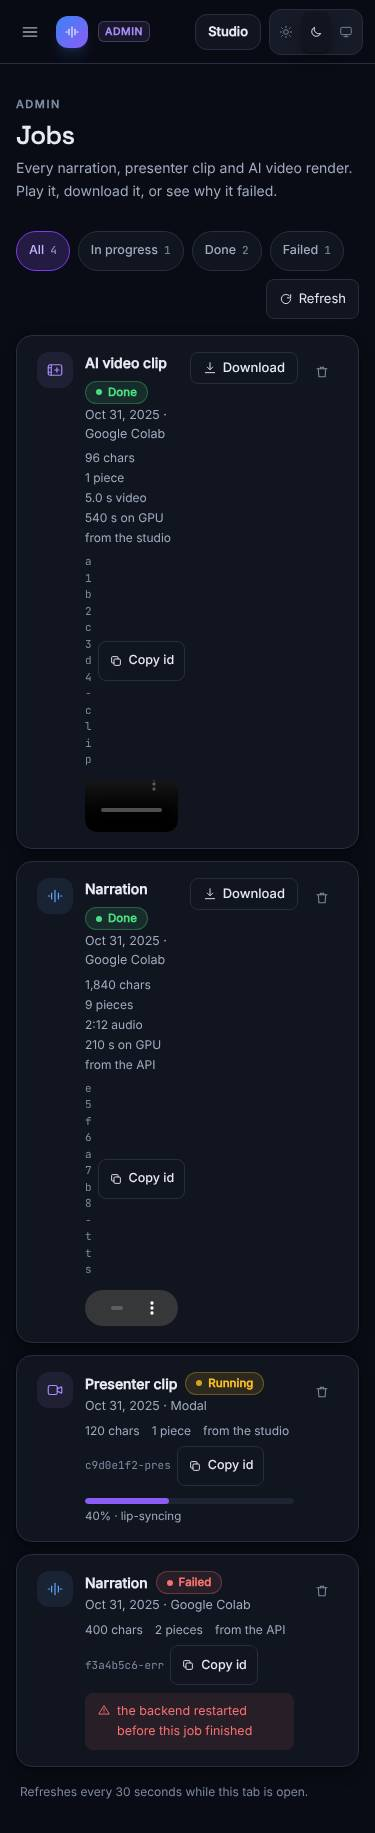
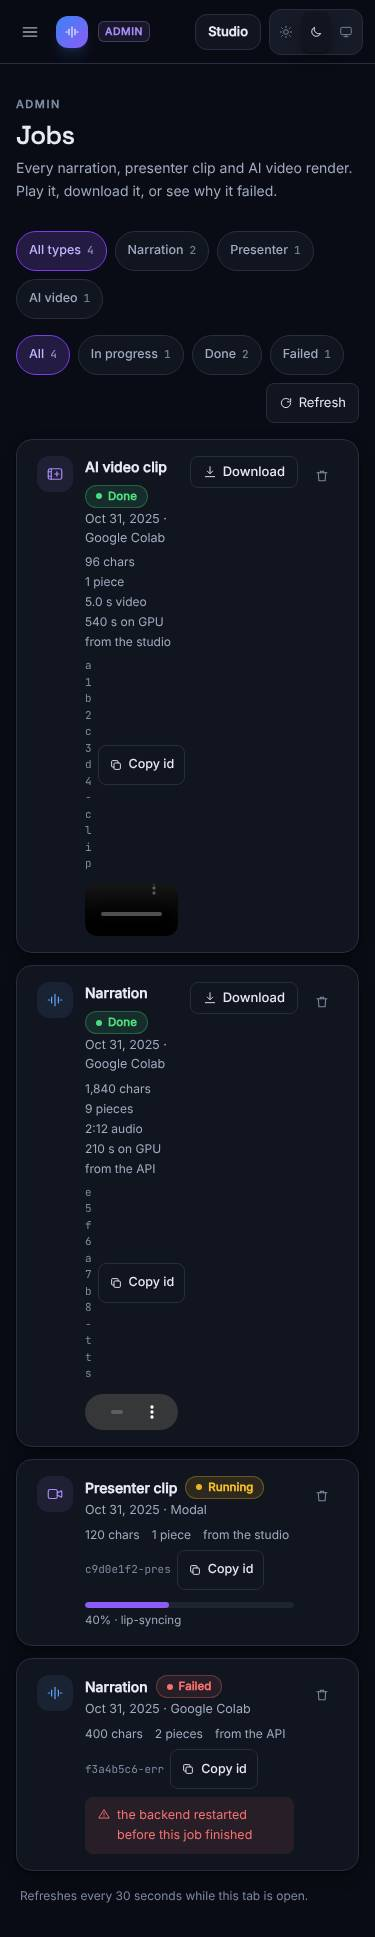
Jobs: filter by type (Narration / Presenter / AI video) alongside status
AI video jobs were already listed under All; this adds a type row so they
can be picked out next to narration and presenter jobs. Counts on each row
follow the other row's choice. Same GET /api/admin/jobs request.

Claude-Session: https://claude.ai/code/session_01PRS8a4F8vVHHxsY3f2VLSC

diff --git a/components/admin/JobsList.tsx b/components/admin/JobsList.tsx
@@ -68,6 +68,22 @@ function matches(f: StatusFilter, j: JobRow): boolean {
   return j.status === f;
 }
 
+type KindFilter = "all" | "tts" | "presenter" | "clip";
+
+const KIND_FILTERS: Array<{ id: KindFilter; label: string }> = [
+  { id: "all", label: "All types" },
+  { id: "tts", label: "Narration" },
+  { id: "presenter", label: "Presenter" },
+  { id: "clip", label: "AI video" },
+];
+
+function matchesKind(f: KindFilter, j: JobRow): boolean {
+  if (f === "all") return true;
+  const k = jobKind(j.kind);
+  // Old "video" renders were presenter-style video; group them with Presenter.
+  return f === "presenter" ? k === "presenter" || k === "video" : k === f;
+}
+
 const POLL_MS = 30_000;
 
 export function JobsList() {
@@ -75,6 +91,7 @@ export function JobsList() {
   const [failed, setFailed] = useState(false);
   const [busy, setBusy] = useState(false);
   const [filter, setFilter] = useState<StatusFilter>("all");
+  const [kind, setKind] = useState<KindFilter>("all");
 
   const load = useCallback(async () => {
     try {
@@ -120,13 +137,30 @@ export function JobsList() {
     };
   }, [load]);
 
+  // Each row's counts respect the other row's choice, so the numbers always
+  // match what clicking would show.
+  const kindCounts = useMemo(() => {
+    const c = { all: 0, tts: 0, presenter: 0, clip: 0 } as Record<KindFilter, number>;
+    for (const j of jobs ?? []) {
+      if (!matches(filter, j)) continue;
+      for (const f of KIND_FILTERS) if (matchesKind(f.id, j)) c[f.id] += 1;
+    }
+    return c;
+  }, [jobs, filter]);
+
   const counts = useMemo(() => {
     const c = { all: 0, active: 0, done: 0, error: 0 } as Record<StatusFilter, number>;
-    for (const j of jobs ?? []) for (const f of FILTERS) if (matches(f.id, j)) c[f.id] += 1;
+    for (const j of jobs ?? []) {
+      if (!matchesKind(kind, j)) continue;
+      for (const f of FILTERS) if (matches(f.id, j)) c[f.id] += 1;
+    }
     return c;
-  }, [jobs]);
+  }, [jobs, kind]);
 
-  const shown = useMemo(() => (jobs ?? []).filter((j) => matches(filter, j)), [jobs, filter]);
+  const shown = useMemo(
+    () => (jobs ?? []).filter((j) => matches(filter, j) && matchesKind(kind, j)),
+    [jobs, filter, kind]
+  );
 
   async function remove(job: JobRow) {
     const ok = await confirmAction({
@@ -169,8 +203,32 @@ export function JobsList() {
 
   return (
     <div className="flex flex-col gap-4">
+      <div className="flex flex-wrap gap-2" role="tablist" aria-label="Job type">
+        {KIND_FILTERS.map((f) => (
+          <button
+            key={f.id}
+            type="button"
+            role="tab"
+            aria-selected={kind === f.id}
+            onClick={() => setKind(f.id)}
+            className={`inline-flex items-center gap-1.5 rounded-full border px-3 py-1 text-[12.5px] font-medium transition-colors ${
+              kind === f.id
+                ? f.id === "tts"
+                  ? "border-audio bg-audioSoft text-audio"
+                  : f.id === "all"
+                    ? "border-accent-600 bg-accent-50 text-accent-700"
+                    : "border-video bg-videoSoft text-video"
+                : "border-line bg-surface text-muted hover:border-lineStrong hover:text-ink"
+            }`}
+          >
+            {f.label}
+            <span className="font-mono text-[11px] opacity-70">{kindCounts[f.id]}</span>
+          </button>
+        ))}
+      </div>
+
       <div className="flex flex-wrap items-center gap-2">
-        <div className="flex flex-wrap gap-2" role="tablist" aria-label="Filter jobs">
+        <div className="flex flex-wrap gap-2" role="tablist" aria-label="Job status">
           {FILTERS.map((f) => (
             <button
               key={f.id}

diff --git a/e2e/jobs.spec.ts b/e2e/jobs.spec.ts
@@ -1,0 +1,29 @@
+import { expect, test } from "@playwright/test";
+import { mockApi } from "./helpers";
+
+/** Admin → Jobs lists narration, presenter and AI video together, filterable by type and status. */
+
+test("Jobs shows every type together and filters by type and status", async ({ page }) => {
+  await mockApi(page);
+  await page.goto("/admin/jobs", { waitUntil: "networkidle" });
+  const cards = page.getByTestId("job-card");
+  await expect(cards).toHaveCount(4);
+  await expect(page.getByRole("list", { name: "Jobs" })).toContainText("AI video clip");
+  await expect(page.getByRole("list", { name: "Jobs" })).toContainText("Presenter clip");
+  await expect(page.getByRole("list", { name: "Jobs" })).toContainText("Narration");
+
+  const types = page.getByRole("tablist", { name: "Job type" });
+  await types.getByRole("tab", { name: /AI video/ }).click();
+  await expect(cards).toHaveCount(1);
+  await expect(cards.first()).toContainText("AI video clip");
+
+  await types.getByRole("tab", { name: /Narration/ }).click();
+  await expect(cards).toHaveCount(2);
+  await page.getByRole("tablist", { name: "Job status" }).getByRole("tab", { name: /Failed/ }).click();
+  await expect(cards).toHaveCount(1);
+  await expect(page.getByRole("tablist", { name: "Job type" }).getByRole("tab", { name: /AI video/ })).toContainText("0");
+
+  await types.getByRole("tab", { name: /All types/ }).click();
+  await page.getByRole("tablist", { name: "Job status" }).getByRole("tab", { name: /^All/ }).click();
+  await expect(cards).toHaveCount(4);
+});
